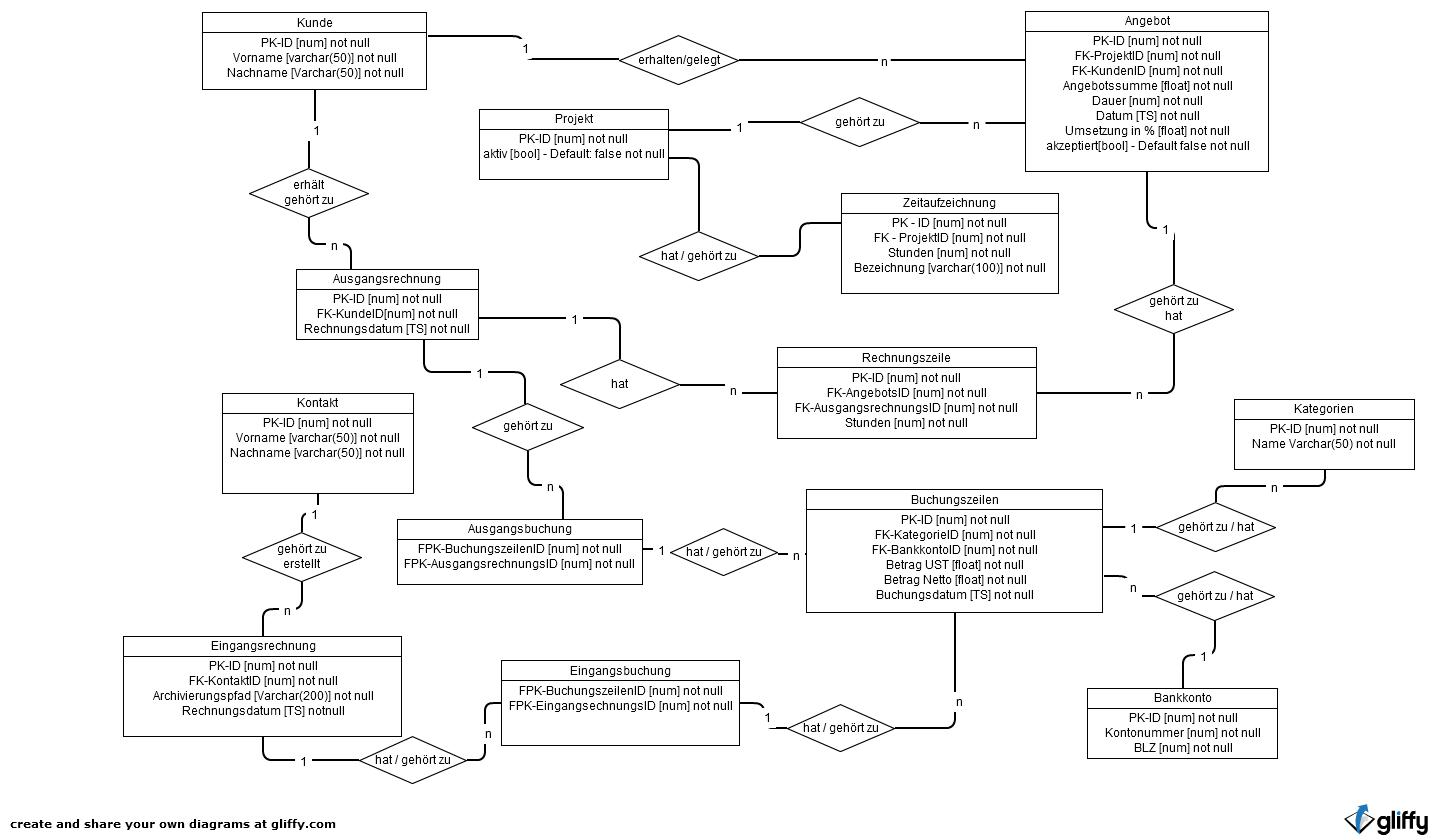
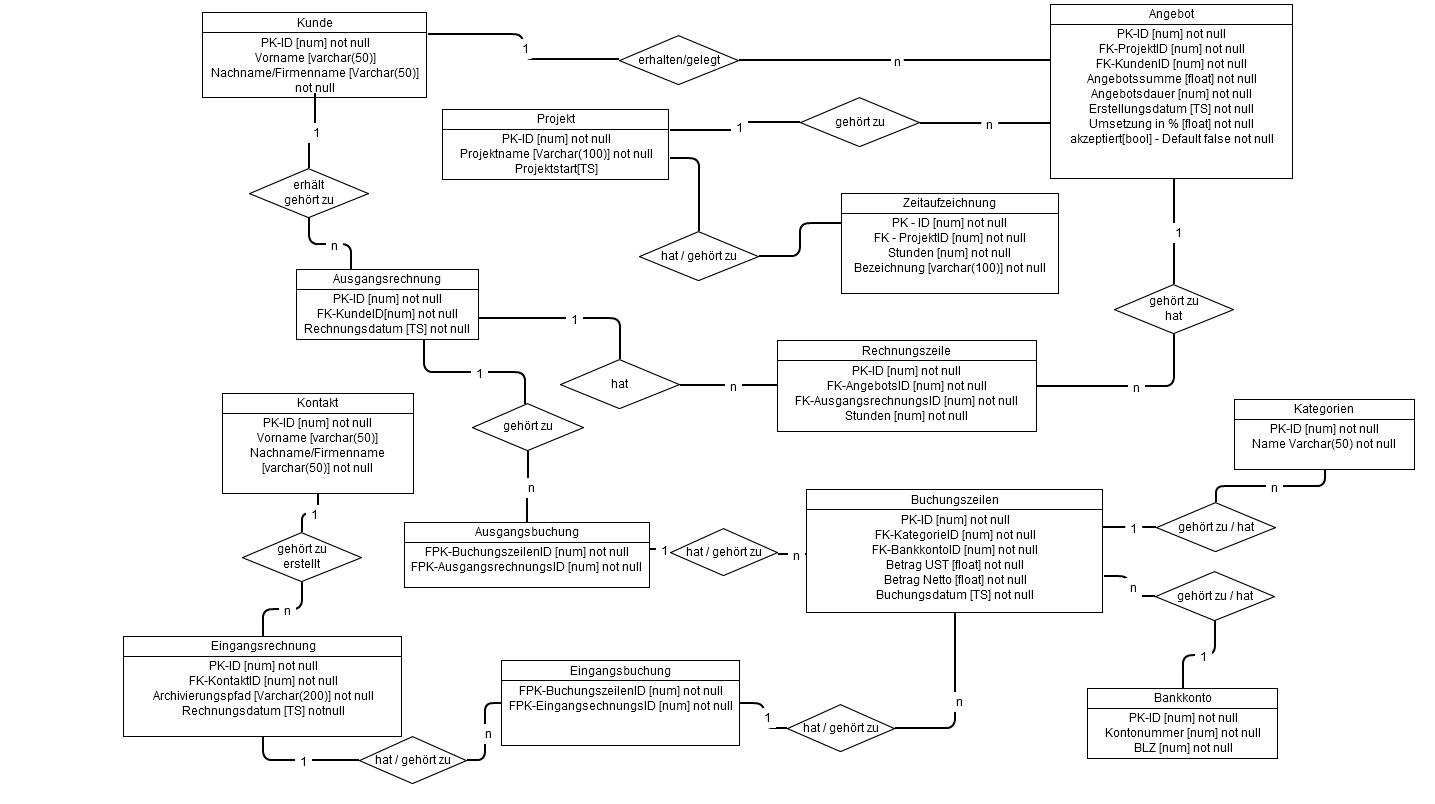
Removes old ER-diagram.jgp and adds new one. Adds two more table classes "KundeTable" and "ProjektTable"

diff --git a/EPU-Backoffice/EPU-Backoffice/BL/Tables/ProjektTable.cs b/EPU-Backoffice/EPU-Backoffice/BL/Tables/ProjektTable.cs
@@ -1,0 +1,49 @@
+// -----------------------------------------------------------------------
+// <copyright file="ProjektTable.cs" company="">
+// TODO: Update copyright text.
+// </copyright>
+// -----------------------------------------------------------------------
+
+namespace EPUBackoffice.BL.Tables
+{
+    using System;
+    using System.Collections.Generic;
+    using System.Linq;
+    using System.Text;
+
+    /// <summary>
+    /// A class for the database table "Projekt" with its attributes
+    /// </summary>
+    public class ProjektTable
+    {
+        private int _ID;
+        /// <summary>
+        /// Unique ID for the table
+        /// </summary>
+        public int ID
+        {
+            get { return _ID; }
+            set { if (value >= 0) { _ID = value; } }
+        }
+
+        private string _Projektname;
+        /// <summary>
+        /// The name of the project
+        /// </summary>
+        public string Projektname
+        {
+            get { return _Projektname; }
+            set { { _Projektname = value; } }
+        }
+
+        private DateTime _Projektstart;
+        /// <summary>
+        /// Datum of creation of an Angebot
+        /// </summary>
+        public DateTime Projektstart
+        {
+            get { return _Projektstart; }
+            set { _Projektstart = value; }
+        }
+    }
+}

diff --git a/EPU-Backoffice/EPU-Backoffice/BL/Tables/KundeTable.cs b/EPU-Backoffice/EPU-Backoffice/BL/Tables/KundeTable.cs
@@ -1,0 +1,48 @@
+// -----------------------------------------------------------------------
+// <copyright file="KundeTable.cs" company="">
+// TODO: Update copyright text.
+// </copyright>
+// -----------------------------------------------------------------------
+
+namespace EPUBackoffice.BL.Tables
+{
+    using System;
+    using System.Collections.Generic;
+    using System.Text;
+
+    /// <summary>
+    /// A class for the database table "Kunde" with its attributes
+    /// </summary>
+    public class KundeTable
+    {
+        private int _ID;
+        /// <summary>
+        /// Unique ID for the table
+        /// </summary>
+        public int ID
+        {
+            get { return _ID; }
+            set { if (value >= 0) { _ID = value; } }
+        }
+
+        private string _Vorname;
+        /// <summary>
+        /// Foreign key to table Kunde
+        /// </summary>
+        public string Vorname
+        {
+            get { return _Vorname; }
+            set { { _Vorname = value; } }
+        }
+
+        private string _NachnameFirmenname;
+        /// <summary>
+        /// Foreign key to table Kunde
+        /// </summary>
+        public string NachnameFirmenname
+        {
+            get { return _NachnameFirmenname; }
+            set { { _NachnameFirmenname = value; } }
+        }
+    }
+}

diff --git a/EPU-Backoffice/EPU-Backoffice/BL/Tables/AngebotTable.cs b/EPU-Backoffice/EPU-Backoffice/BL/Tables/AngebotTable.cs
@@ -56,24 +56,24 @@ namespace EPUBackoffice.BL.Tables
         }
 
         // in hours
-        private int _Dauer;
+        private int _Angebotsdauer;
         /// <summary>
         /// Dauer of an Angebot
         /// </summary>
-        public int Dauer
+        public int Angebotsdauer
         {
-            get { return _Dauer; }
-            set { if (value >= 0) { _Dauer = value; } }
+            get { return _Angebotsdauer; }
+            set { if (value >= 0) { _Angebotsdauer = value; } }
         }
 
-        private DateTime _Datum;
+        private DateTime _Erstellungsdatum;
         /// <summary>
-        /// Datum of an Angebot
+        /// Datum of creation of an Angebot
         /// </summary>
-        public DateTime Datum
+        public DateTime Erstellungsdatum
         {
-            get { return _Datum; }
-            set { _Datum = value; }
+            get { return _Erstellungsdatum; }
+            set { _Erstellungsdatum = value; }
         }
 
         // between 0-1 (in %)
